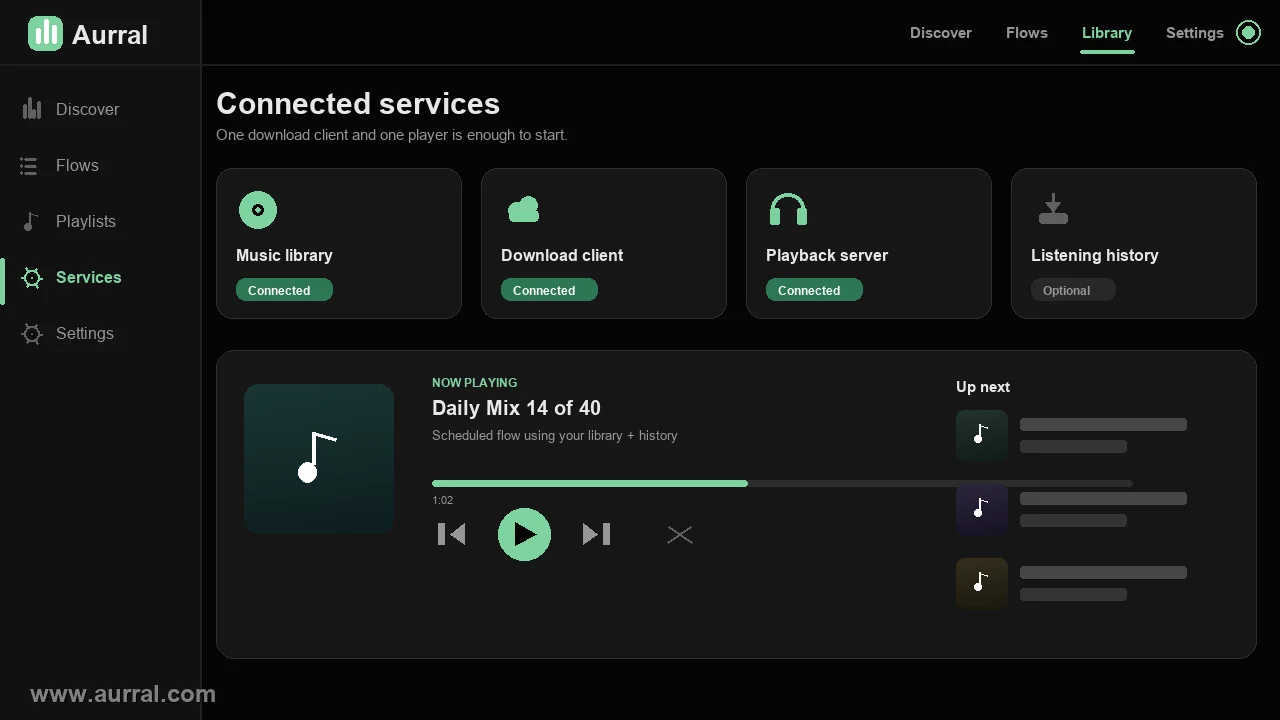
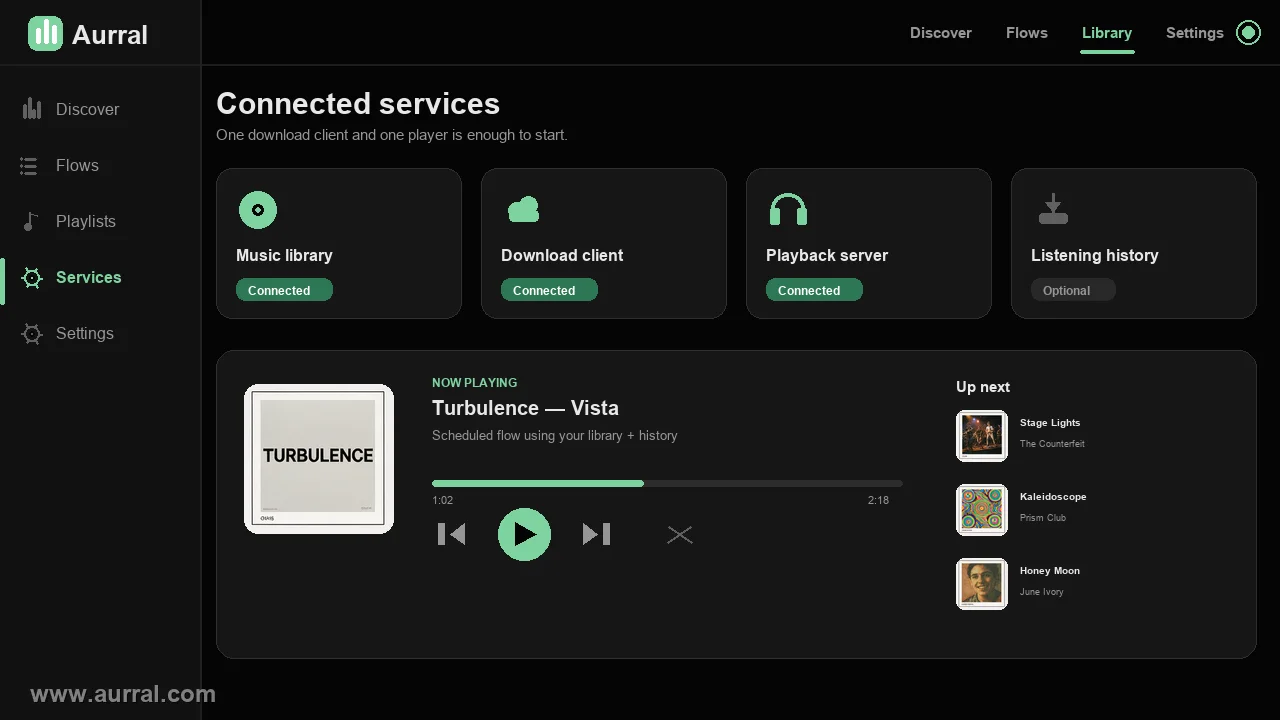
Fill mockups with original AI album covers + add album detail image
- Generate a 4x4 contact sheet of original album covers (one ImageGen
  call), slice into 16 covers, fill every thumbnail in discover and
  playback mockups; add album/artist labels iTunes-style.
- New third homepage image: album detail page (The Weeknd style
  original artwork, 'Dawnhaze') with cover, FLAC badge, actions and
  tracklist with library status.
- Update captions to match new artwork.

diff --git a/app/page.tsx b/app/page.tsx
@@ -262,8 +262,22 @@ export default function Home() {
             />
           </figure>
           <p className="mt-3 text-center text-[13px] text-subtle">
-            An artist page with one-click Add to Lidarr — recommendations that
-            end as real files on your server.
+            Connected services with a live now-playing flow — one download
+            client and one player is a complete setup.
+          </p>
+          <figure className="mt-10 overflow-hidden rounded-xl border border-[#ffffff14] bg-surface shadow-[0_20px_60px_-30px_rgba(0,0,0,0.8)]">
+            <img
+              src="/screenshots/album-detail.webp"
+              alt="Aurral album detail page for an album by The Weeknd, showing the cover art, FLAC quality badge, play and library actions, and a tracklist with per-track library status"
+              width={1280}
+              height={720}
+              loading="lazy"
+              className="h-auto w-full"
+            />
+          </figure>
+          <p className="mt-3 text-center text-[13px] text-subtle">
+            Every album page shows exactly what is on disk and what is still
+            missing — down to the checksum.
           </p>
           <div className="mt-10 grid gap-8">
             {ENTITY_GROUPS.map((g) => (
